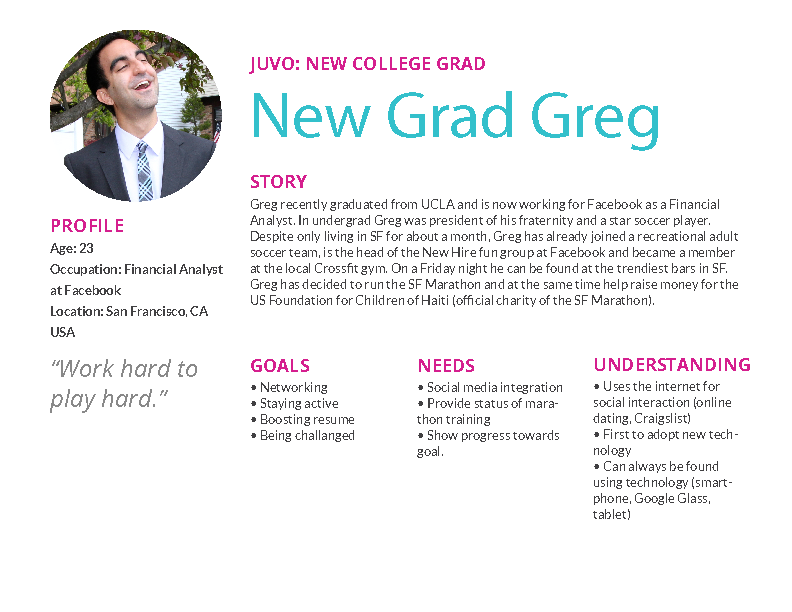
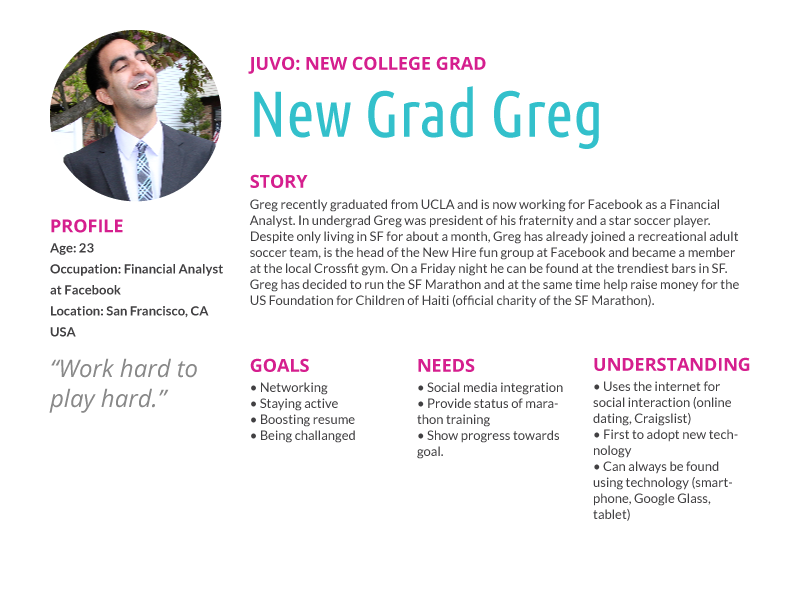
Added goals/solution sections

diff --git a/juvo.html b/juvo.html
@@ -64,21 +64,47 @@
   </div>
 	<div class="juvo">
 		<div class="container">
-			<div class="sixteen columns section juvo">
+			<div class="sixteen columns section">
 				<h2>The Making of Juvo</h2>
 				<a href="http://gemmahaylett.github.io/JUVO/" target="_blank"><img src="images/juvo.png"></a>
 			</div>
 		</div>
 	</div>
-	<div class="description darkbackground">
+	<div class="description section darkbackground">
 		<div class="container">	
-			<div class="sixteen columns section description">
+			<div class="sixteen columns  description">
 				<h4>Problem</h4>
 				<p>Design and build a web application for charities and foundations to receive donations from people, as well as for people to donate money to charities they find interesting.</p>
-				<h4>Method in the Madness</h4>
-				<p>I started the development of the fundraising web app by first deciding on a name, logo and color palette. Juvo is the Latin word for 'help'. I wanted the overall look and feel of the application to have a 'party-type' atmosphere. Since some of the fundraising efforts have sad stories to them, I wanted to make the focus of the fundraising effort more positive. I chose a teal and yellow palette to help accomplish that goal. After deciding on the branding of the web application, I moved onto the discovery phase by creating <a href="https://docs.google.com/spreadsheet/ccc?key=0AsBNs_Wjaru_dC1rSDgteWE0Umx4a3dJNHZ5ZDR0b3c&usp=sharing">user stories</a> and user personas. I researched existing fundraising sites such as Kickstarter, JustGiving and GiveForward. Next I compiled user flows and a site map using draw.io. I created <a href="http://app.uxpin.com/story/8b4e4e218333e66b38e93d8bfa5a132961141c6f/107278/6401326c">wireframes using UXPin.</a> Designing the UI was the next of the process. I used Illustrator and Photoshop to create the main prototypes. The rest of the pages were designed in the browser. I developed the front-end using Zurb's Foundation Framework with HTML, SASS and jQuery.</p>
-			<p><a href="https://github.com/gemmahaylett/Juvo" target="_blank">See the Juvo code on GitHub</a><p>
+				<h4>Method</h4>
+				<p>I started the development of the fundraising web app by first deciding on a name, logo and color palette. Juvo is the Latin word for 'help'. After deciding on the branding of the web application, I moved onto the discovery phase by creating <a href="https://docs.google.com/spreadsheet/ccc?key=0AsBNs_Wjaru_dC1rSDgteWE0Umx4a3dJNHZ5ZDR0b3c&usp=sharing">user stories</a> and user personas. I researched existing fundraising sites such as Kickstarter, JustGiving and GiveForward. Next I compiled user flows and a site map using draw.io. I created <a href="http://app.uxpin.com/story/8b4e4e218333e66b38e93d8bfa5a132961141c6f/107278/6401326c">wireframes using UXPin.</a> Designing the UI was the next of the process. I used Illustrator and Photoshop to create the main prototypes. The rest of the pages were designed in the browser. I developed the front-end using Zurb's Foundation Framework with HTML, SASS and jQuery.</p>
       </div>
+      <div class="six columns">
+        <h6>Goals</h6>
+      </div>
+      <div class="ten columns">
+        <h6>Solution</h6>
+      </div>
+
+      <div class="six columns">
+        <p>Create an enjoyable/positive atmosphere</p>
+      </div>
+      <div class="ten columns">
+        <p>Since some of the fundraising efforts have sad stories to them, I wanted to make the focus of the fundraising effort more positive. I wanted the overall look and feel of the application to have a 'party-type' atmosphere. I chose a teal and yellow palette to help accomplish that goal. </p>
+      </div>  
+
+      <div class="six columns">
+        <p>Make it easy to search for causes</p>
+      </div>
+      <div class="ten columns">
+        <p>On the homepage, I included a search bar for users who already know which causes they want to donate to. For other users who do not have a specific cause in mind, the 'Browse for Charity' page allows users to browse by category. I implmented a filtering capability so that only causes the user is interested are displayed.</p>
+      </div>
+      <div class="six columns">
+        <p>Allow fundraiser owner to easily track and maintain their fundraiser</p>
+      </div>
+      <div class="ten columns">
+        <p>The dashboard was designed to give a quick snapshot of the overall health of a fundraiser. From the dashboard the user has the option to see more detailed statistics and or to update the fundraiser information. There is lots of built in functionality for editing fundraiser info, managing comments and updates.</p>
+      </div>
+			<p><a href="https://github.com/gemmahaylett/Juvo" target="_blank">See the Juvo code on GitHub</a><p>
 		</div>
 	</div>
   <div class="whitebackground section">

diff --git a/paycrave.html b/paycrave.html
@@ -79,9 +79,34 @@
 			<div class="sixteen columns">
 				<h4>Problem</h4>
 				<p>Wireframe and design a mobile payment app called Paycrave. A user will be able to locate food trucks, order food and pay for their order prior to pick up.</p>
-				<h4>Method in the Madness</h4>
-				<p>I started the development of the Paycrave app by creating <a href="https://docs.google.com/spreadsheet/ccc?key=0AsBNs_Wjaru_dHp1TTk2dVQ3UVJGeFF5clFBakd6Z3c&usp=sharing">user stories</a>. This helped me narrow down which features would be most important to the users. I also researched exisiting apps that had similar goals (Yelp, Square, PayPal mobile). I decided that speed (in locating and ordering) was a major user goal. Since foodtrucks have distinct brands, I felt it important to highlight each food truck's "personality". Secondary goals were to implement a review/feedback system. I used the information during my discovery phase to create wireframes. From the wireframes, I created prototypes for various platforms: iOS 7, iPad, Android and Windows Phone. To test out my iOS 7 design I performed a usability test using the prototype web application <a href="http://marvl.in/72020">Marvel.</a> I asked a tester to accomplish some of the main tasks (locating and ordering/paying for a item). From the usability study, I discovered that the tester prefered to have the app make suggestions of causes to donate to based on preferences to narrow down the initial search.</p>
+				<h4>Method</h4>
+				<p>I started the development of the Paycrave app by creating <a href="https://docs.google.com/spreadsheet/ccc?key=0AsBNs_Wjaru_dHp1TTk2dVQ3UVJGeFF5clFBakd6Z3c&usp=sharing" target="_blank">user stories</a>. This helped me narrow down which features would be most important to the users. I also researched exisiting apps that had similar goals (Yelp, Square, PayPal mobile). I used the information during my discovery phase to create wireframes. From the wireframes, I created prototypes for various platforms: iOS 7, iPad, Android and Windows Phone. To test out my iOS 7 design I performed a usability test using the prototype web application <a href="http://marvl.in/72020" target="_blank">Marvel.</a> I asked a tester to accomplish some of the main tasks (locating and ordering/paying for a item). From the usability study, I discovered that the tester prefered to have the app make suggestions of causes to donate to based on preferences to narrow down the initial search.</p>
 			</div>
+      <div class="six columns">
+        <h6>Goals</h6>
+      </div>
+      <div class="ten columns">
+        <h6>Solution</h6>
+      </div>
+      <div class="six columns">
+        <p>User should be able to quickly find and order food items.</p>
+      </div>
+      <div class="ten columns">
+        <p>One way I accomplished this goal was by avoiding multi-level menus. By including more options/information on a view, the user could minimize the number of delicate maneuvers they would have to perform. In the map view, I tried to include vital information to making a foodtruck selection (distance, review, type of food). I also designed the payment view to require prior credit card entry and minimal inputs, making the payment process fast and simple.</p>
+      </div>  
+
+      <div class="six columns">
+        <p>Since foodtrucks have distinct brands, highlight each food truck's "personality".</p>
+      </div>
+      <div class="ten columns">
+        <p>I allotted a significant amount of space for foodtruck pictures/logos to be displayed. Also when searching for foodtrucks on the map, a short tag line can be displayed per foodtruck, so that the user can get a better idea of what type of food is being offered.</p>
+      </div>
+      <div class="six columns">
+        <p>Encourage users to review foodtrucks.</p>
+      </div>
+      <div class="ten columns">
+        <p>I included several reminders for a user to add a review of the food truck throughout the app. I also designed the review entry page to be minimalistic. I felt that if a user felt submitting a review was simple and not time consuming, the user would be more willing to spend the time to submit a review.</p>
+      </div>
 		</div>
 	</div>
 	<div class="whitebackground section">

diff --git a/jottly.html b/jottly.html
@@ -70,14 +70,43 @@
 		</div>
 	</div>
 	<div class="description darkbackground">
-		<div class="container">	
-			<div class="sixteen columns section description">
+		<div class="container section">	
+			<div class="sixteen columns description">
 				<h4>Problem</h4>
 				<p>Create a logo and a landing page for the newly formed startup caleld Jott.ly. It is a simple SaaS (Software as a Service) web application focused on allowing users to sign up and create an account, make simple content pages, and provide a way to collaborate with others within their organization.</p>
-				<h4>Method in the Madness</h4>
-				<p>Since Jott.ly is a lightweight web application, I wanted to create a design that mirrored the nature of the application. When designing I tried to keep all design aspects simple and clean. I kept the copy short and straight to the point. I used graphics sparingly. The message I wanted to get across was that the application uses modern solutions to solve a simple problem. The color palette of the sea green and orange was chosen to give the product a more modern look and feel. </p>
+				<h4>Method</h4>
+				<p>The first step in designing the Jott.ly landing page was to understand the product and its intended audience. I interviewed a stakeholder to learn about Jott.ly's overall business goals. I researched simlar products such as Dropbox and Google Drive to understand Jott.ly's competitors. With the research I complied, I began designing a logo and color palette for the company. Once the logo and color palette were decided upon, I created a wireframe of the landing page structure to layout what information was to be displayed and in what order. The next step was to create a protoype using Photoshop. Once the UI was decided upon, I coded the landing page and made it landing page responsive.</p>
+			</div>
+			<div class="six columns">
+				<h6>Goals</h6>
+			</div>
+			<div class="ten columns">
+				<h6>Solution</h6>
+			</div>
+
+			<div class="six columns">
+				<p>Create a feel of professionalism, yet modern. Minimalistc and clean.</p>
+			</div>
+			<div class="ten columns">
+				<p>Since Jott.ly is a lightweight web application, I wanted to create a design that mirrored the nature of the application. The message I wanted to get across was that the application uses modern solutions to solve a simple problem. I accomplished this by including modern yet minimalistic elements in the design. The modern color palette of the sea green and orange was chosen. I selected a sans-serif font, to give the product a more modern feel as opposed to using a serif font which usually is associated with a more classic/historic feel. The hexagon used in the logo vs the commonly used circle or square was an attempt to add a more modern element to the design as well.</p>
+			</div>	
+
+			<div class="six columns">
+				<p>Make the user feel like they need/want to sign up.</p>
+			</div>
+			<div class="ten columns">
+				<p>By including a large call to action button as one of the first elements the user sees, I was trying to encourage the user to sign up. I created copy that contained lots of action words such as "Bridge", "Share", "Build" to implicitly encourage users to take action.</p>
+			</div>
+			<div class="six columns">
+				<p>User should see a benefit to using our application and understand its value and how simple it is to use.</p>
+			</div>
+			<div class="ten columns">
+				<p>I established a visual heirarchy which allows the user to easily grasp the meaning of the product by quickly scanning the landing page, through the use of color, space and alignment. I outlined the major product features with an icon to give the user a visual cue to what type of problems the product can solve.</p>
+			</div>
+			<div class="sixteen columns">
 				<p><a href="https://github.com/gemmahaylett/Jottly-Landing-Page" target="_blank">See the Jott.ly code on GitHub</a><p>
 			</div>
+
 		</div>
 	</div>
 	<div class="whitebackground">

diff --git a/index.html b/index.html
@@ -67,9 +67,9 @@
 	</div>
 	<div id="about">
 		<div class="container">	
+			<h2>Web Designer and Front-End Developer</h2>
 			<div class="twelve columns offset-by-four">
-				<h2>Hello!</h2>
-				<p>I am web designer and Front-End developer. I use UX design principles to create enjoyable user experiences. I create simple, modern and efficient websites using HTML/CSS/SASS, JS, jQuery, git. <a href="GemmaHaylett_Resume.pdf">View my Resume (PDF).<a/></p>
+				<p>I use UX design principles to create enjoyable user experiences. I create simple, modern and efficient websites using HTML/CSS/SASS, JS, jQuery, git. <a href="GemmaHaylett_Resume.pdf" target="_blank">View my Resume (PDF).<a/></p>
 			</div>
 	</div>
  </div>
@@ -102,7 +102,7 @@
 			</div>
 		</div>
 </div>
-<div class="juvo projects ">
+<div class="juvo projects">
 	<div class="container">
 		<div class="nine columns">
 			<a href="http://gemmahaylett.github.io/JUVO/" target="_blank"><img src="images/juvo.png"></a>

diff --git a/stylesheets/style.css b/stylesheets/style.css
@@ -74,7 +74,7 @@ h4{
 
 p{
   font-size: 18px;
-  color: #999;
+  color: #494848;
   margin: 30px 0;
 }
 
@@ -127,13 +127,13 @@ img{
   border-radius: 2px;
   text-aligh: center;
   font-size: 15px;  
-  box-shadow: 0 4px 0 rgba(38,148,150,.8);
-  background-color: #63bdbd; // Old browsers
   color: white;
   text-decoration: none;
   border-bottom: none;
   display: inline-block;
   margin-bottom: 50px;
+  box-shadow: 0 4px 0 rgba(38,148,150,.8);
+  background-color: #63bdbd; // Old browsers
 }
 
 /*-----------------------------------------------------------------------------------*/
@@ -157,11 +157,11 @@ p a, p a:hover, p a:visited {
 }
 
 #about a{
-  color: #999;;
-  border-bottom: 1px dotted #999;;
+  color: #494848;
+  border-bottom: 1px dotted #494848;
 }
 
-/* Background Colors */
+/* Nav bar */
 
 .fixed{
   width: 100%;
